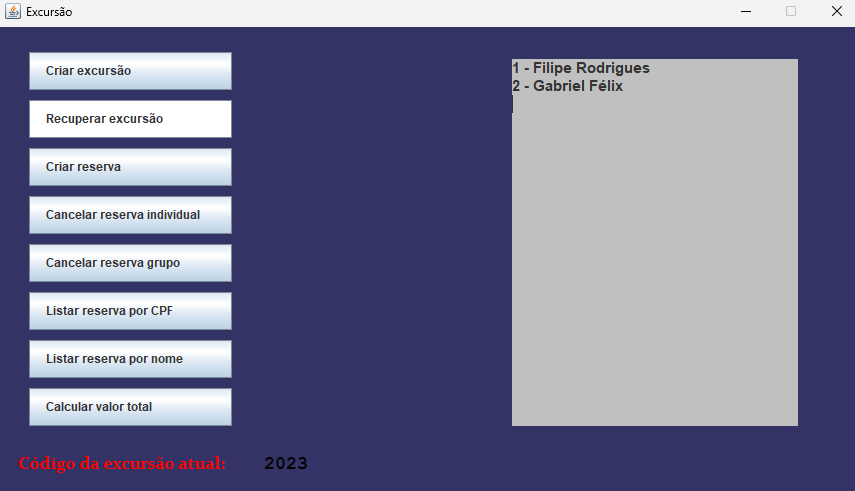
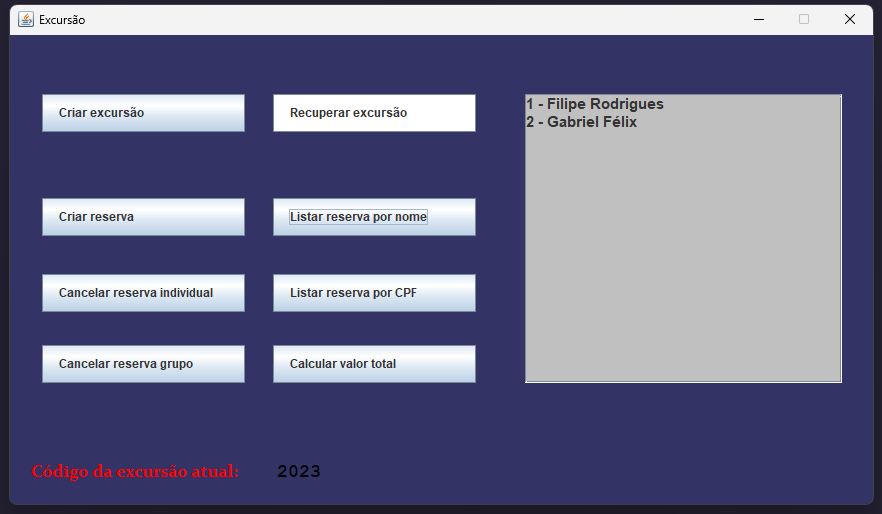
Update Final

diff --git a/src/Interface/Janela.java b/src/Interface/Janela.java
@@ -14,6 +14,7 @@ import javax.swing.SwingConstants;
 import javax.swing.UIManager;
 import Processamento.Excursao;
 import javax.swing.JTextArea;
+import javax.swing.JScrollPane;
 
 public class Janela {
 
@@ -31,6 +32,7 @@ public class Janela {
 	private JTextArea textAreaPainel;
 	private Excursao excursao;
 	private boolean excursaoSelecionada = false;
+	private JScrollPane scrollPane;
 
 	/*
 	  Launch the application.
@@ -140,7 +142,7 @@ public class Janela {
 			}
 		});
 
-		btnCriarExcursao.setBounds(32, 25, 203, 38);
+		btnCriarExcursao.setBounds(32, 59, 203, 38);
 		frame.getContentPane().add(btnCriarExcursao);
 
 		btnRecuperarExcursao = new JButton("Recuperar excursão");
@@ -192,7 +194,7 @@ public class Janela {
 		}
 
 		);
-		btnRecuperarExcursao.setBounds(32, 73, 203, 38);
+		btnRecuperarExcursao.setBounds(263, 59, 203, 38);
 		frame.getContentPane().add(btnRecuperarExcursao);
 
 		btnCriarReserva = new JButton("Criar reserva");
@@ -265,7 +267,7 @@ public class Janela {
 			}
 
 		});
-		btnCriarReserva.setBounds(32, 121, 203, 38);
+		btnCriarReserva.setBounds(32, 163, 203, 38);
 		frame.getContentPane().add(btnCriarReserva);
 
 		btnCancelarReservaIndividual = new JButton("Cancelar reserva individual");
@@ -335,7 +337,7 @@ public class Janela {
 
 			}
 		});
-		btnCancelarReservaIndividual.setBounds(32, 169, 203, 38);
+		btnCancelarReservaIndividual.setBounds(32, 239, 203, 38);
 		frame.getContentPane().add(btnCancelarReservaIndividual);
 
 		btnCancelarReservaGrupo = new JButton("Cancelar reserva grupo");
@@ -389,7 +391,7 @@ public class Janela {
 		});
 		btnCancelarReservaGrupo.setFont(new Font("Arial", Font.BOLD, 12));
 		btnCancelarReservaGrupo.setHorizontalAlignment(SwingConstants.LEFT);
-		btnCancelarReservaGrupo.setBounds(32, 217, 203, 38);
+		btnCancelarReservaGrupo.setBounds(32, 310, 203, 38);
 		frame.getContentPane().add(btnCancelarReservaGrupo);
 		/*
 		Botão responsável por listar as reservas de uma excursão através do CPF fornecido (completo ou parte dele), ele recebe o CPF e retorna todas as reservas que possuem este CPF. 
@@ -451,7 +453,7 @@ public class Janela {
 		});
 		btnListarReservaPorCPF.setFont(new Font("Arial", Font.BOLD, 12));
 		btnListarReservaPorCPF.setHorizontalAlignment(SwingConstants.LEFT);
-		btnListarReservaPorCPF.setBounds(32, 265, 203, 38);
+		btnListarReservaPorCPF.setBounds(263, 239, 203, 38);
 		frame.getContentPane().add(btnListarReservaPorCPF);
 
 		/*
@@ -506,7 +508,7 @@ public class Janela {
 		});
 		btnListarReservaPorNome.setFont(new Font("Arial", Font.BOLD, 12));
 		btnListarReservaPorNome.setHorizontalAlignment(SwingConstants.LEFT);
-		btnListarReservaPorNome.setBounds(32, 313, 203, 38);
+		btnListarReservaPorNome.setBounds(263, 163, 203, 38);
 
 		frame.getContentPane().add(btnListarReservaPorNome);
 
@@ -547,15 +549,18 @@ public class Janela {
 		});
 		btnCalcularValorTotal.setHorizontalAlignment(SwingConstants.LEFT);
 		btnCalcularValorTotal.setFont(new Font("Arial", Font.BOLD, 12));
-		btnCalcularValorTotal.setBounds(32, 361, 203, 38);
+		btnCalcularValorTotal.setBounds(263, 310, 203, 38);
 		frame.getContentPane().add(btnCalcularValorTotal);
-
-		textAreaPainel = new JTextArea();
-		textAreaPainel.setBackground(Color.LIGHT_GRAY);
-		textAreaPainel.setFont(new Font("Arial", Font.BOLD, 15));
-		textAreaPainel.setEditable(false);
-		textAreaPainel.setVisible(false);
-		textAreaPainel.setBounds(515, 32, 286, 367);
-		frame.getContentPane().add(textAreaPainel);
+		
+		scrollPane = new JScrollPane();
+		scrollPane.setBounds(515, 59, 317, 289);
+		frame.getContentPane().add(scrollPane);
+		
+				textAreaPainel = new JTextArea();
+				scrollPane.setViewportView(textAreaPainel);
+				textAreaPainel.setBackground(Color.LIGHT_GRAY);
+				textAreaPainel.setFont(new Font("Arial", Font.BOLD, 15));
+				textAreaPainel.setEditable(false);
+				textAreaPainel.setVisible(false);
 	}
 }
